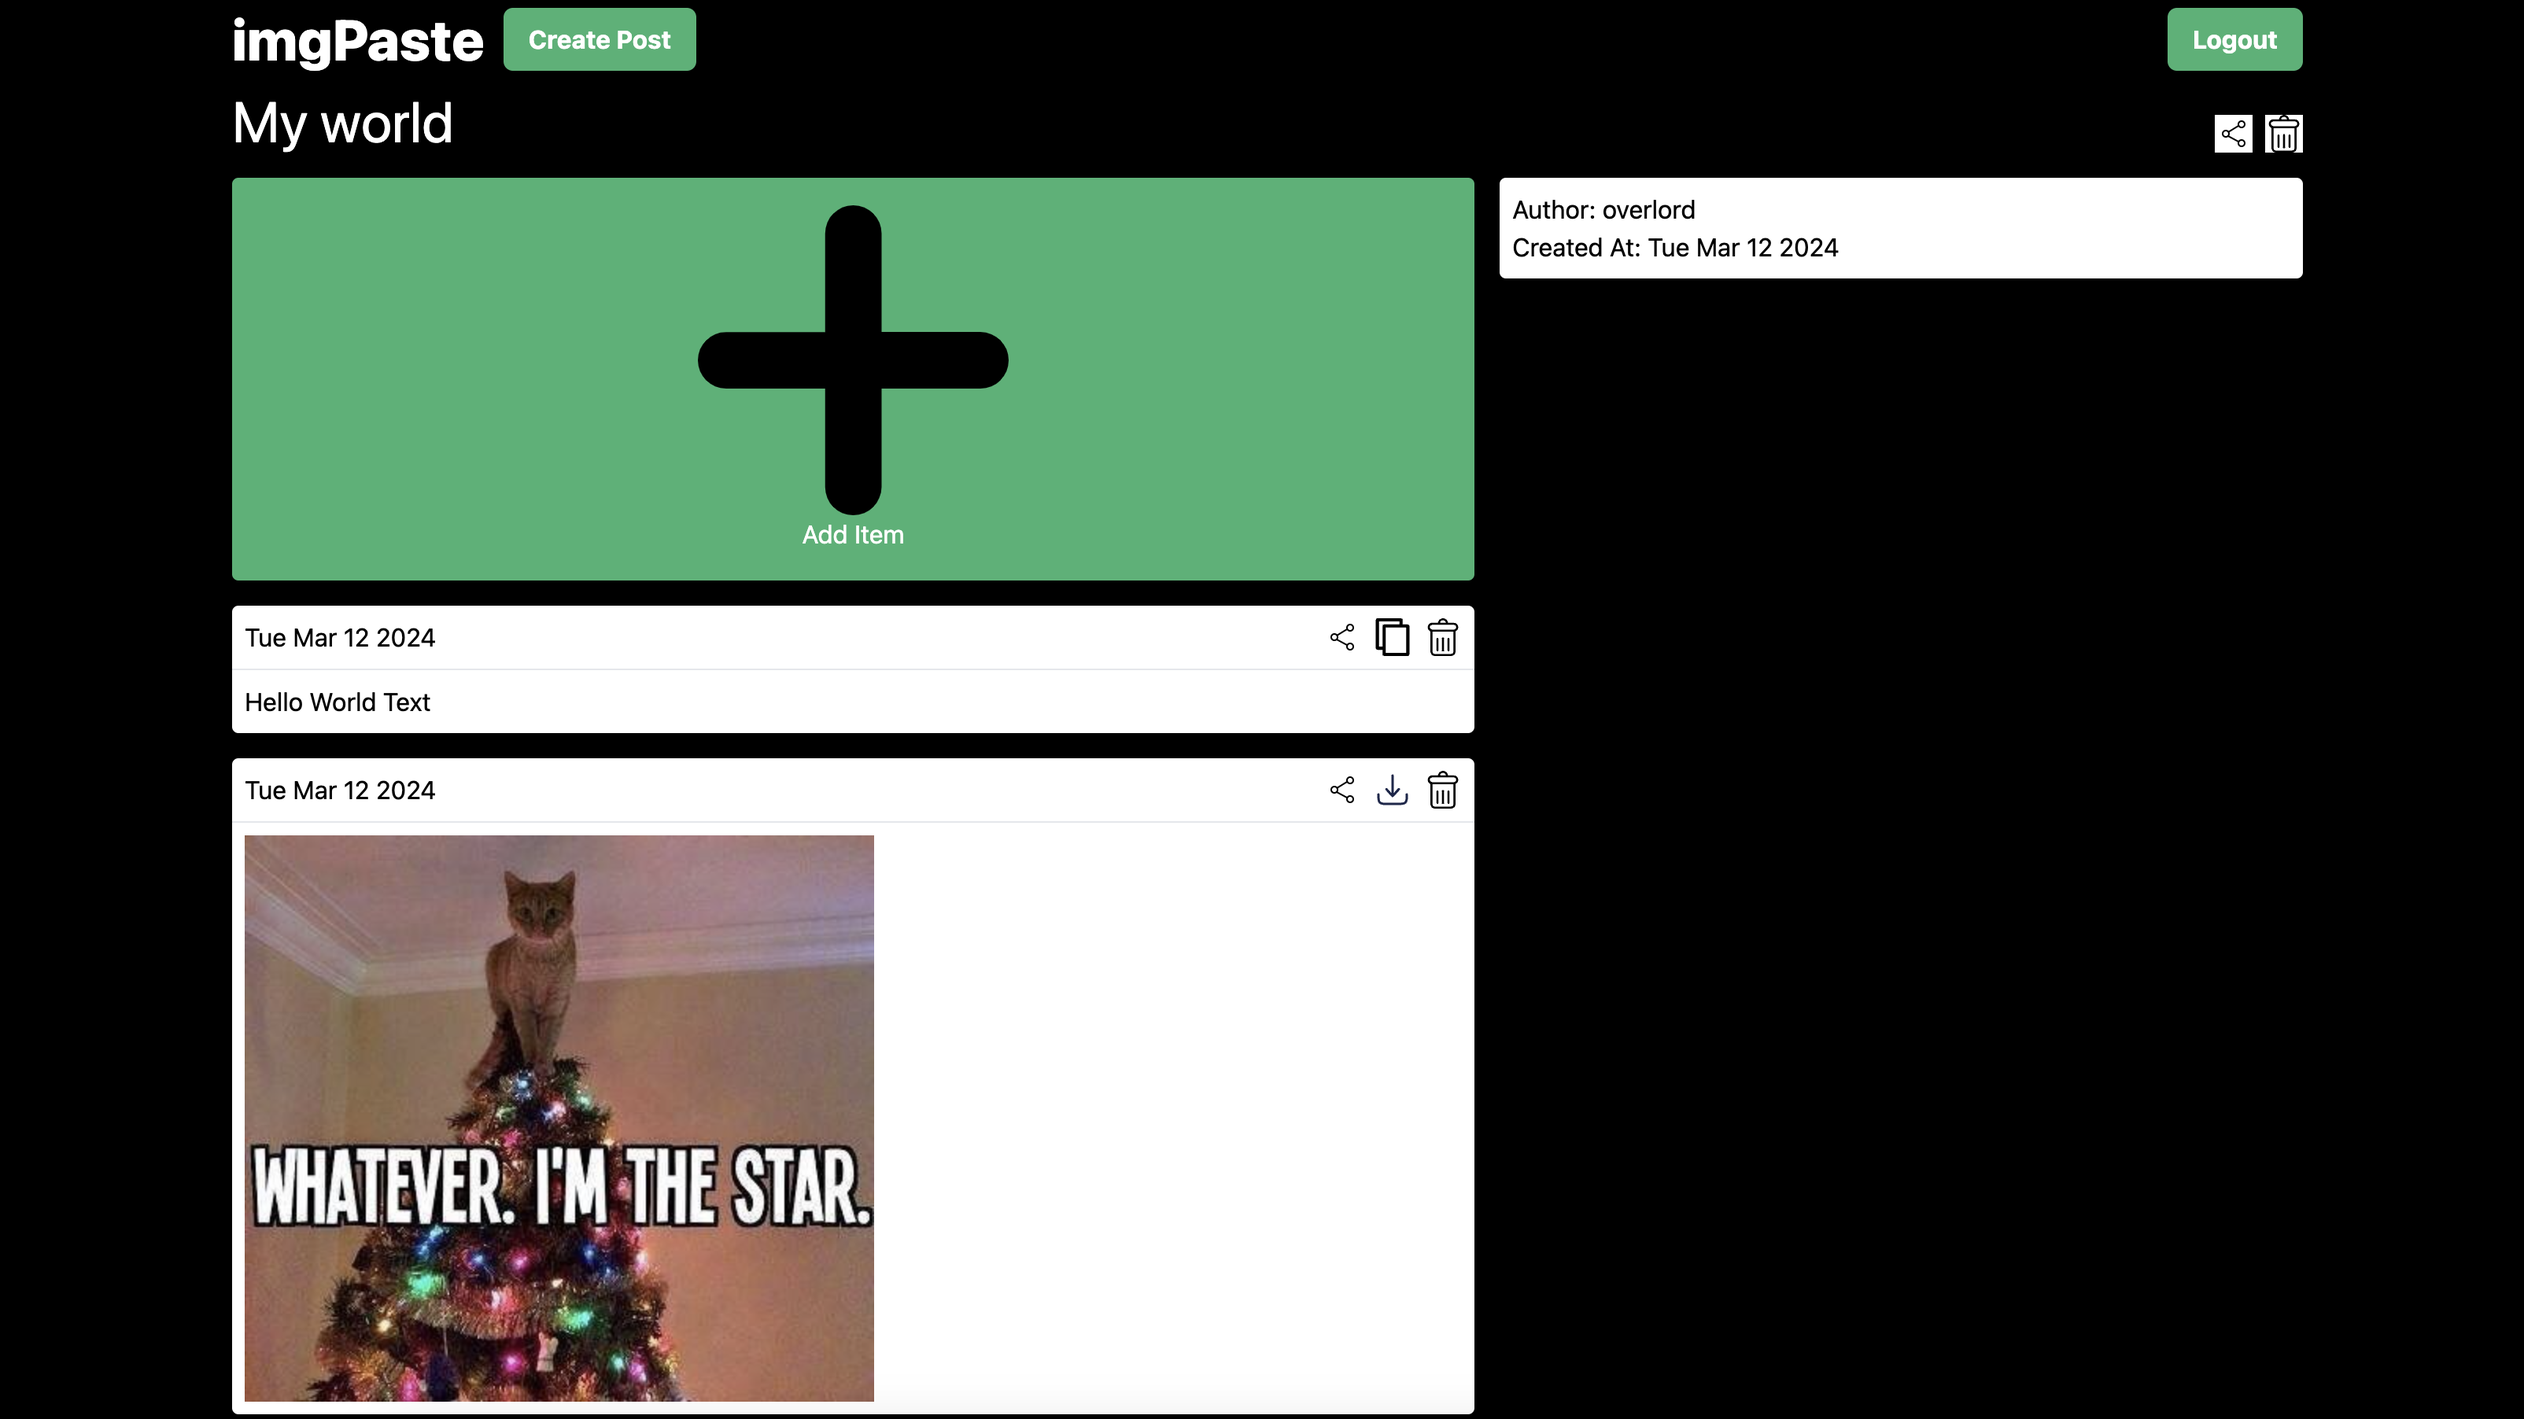
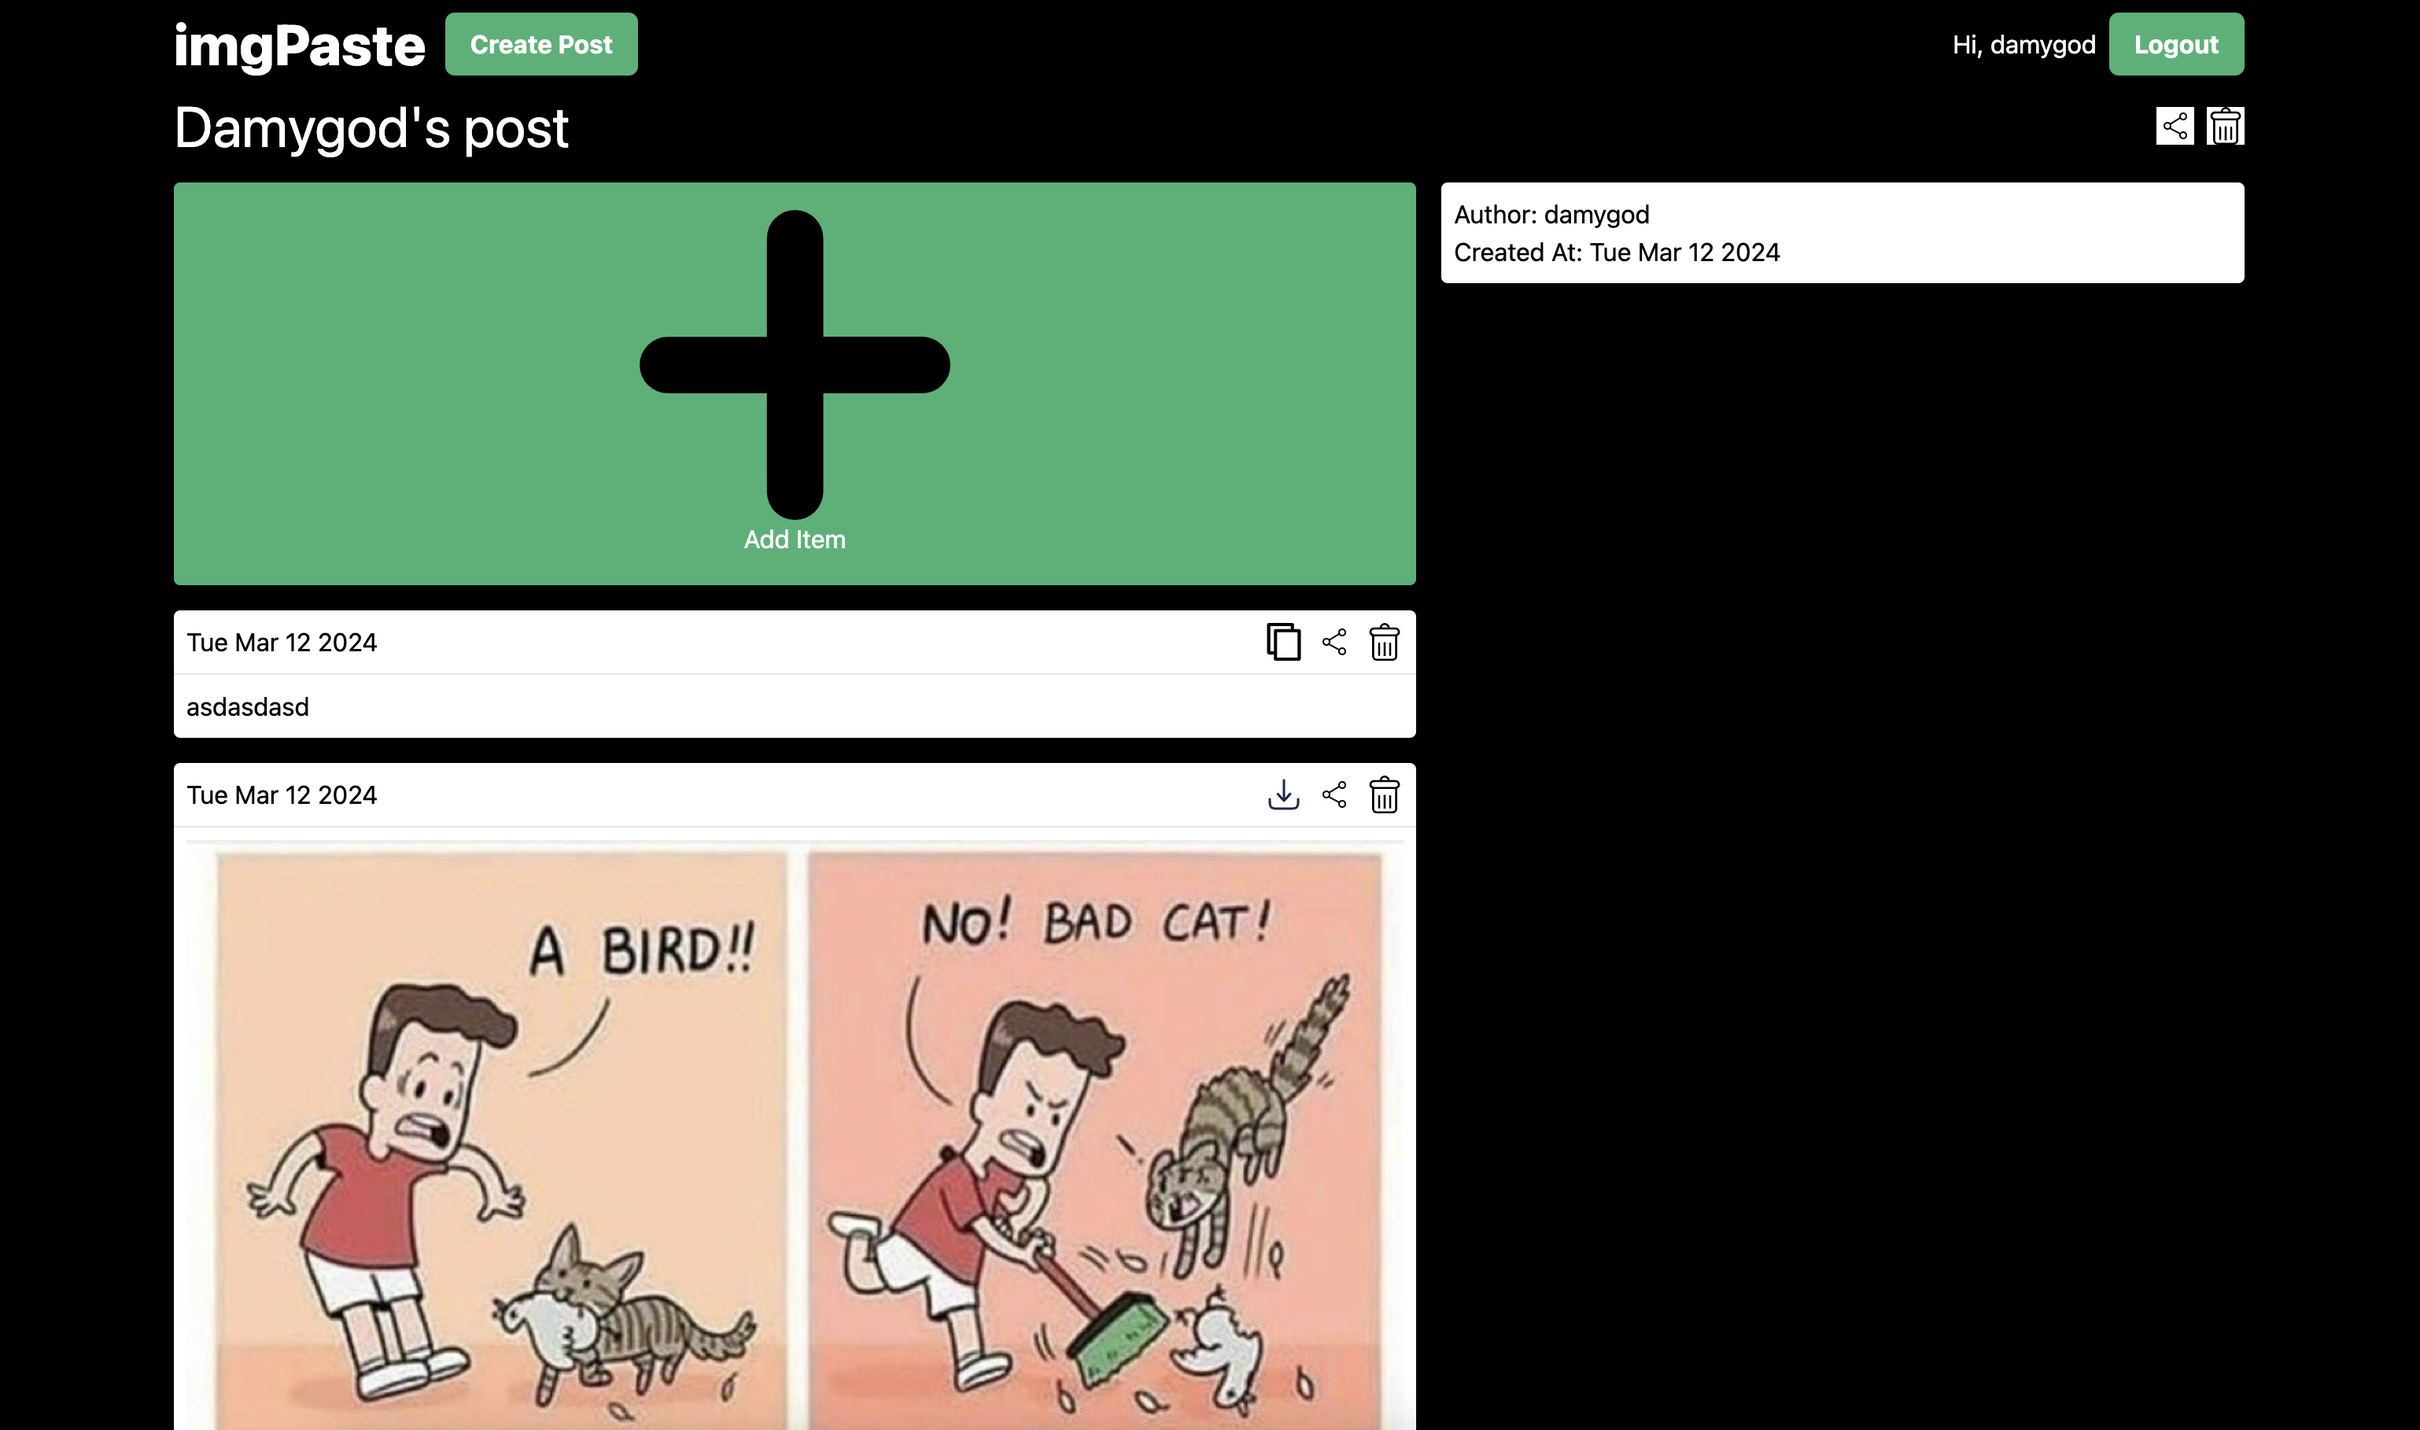
fix: readme and more authorization

diff --git a/client/src/components/Post.tsx b/client/src/components/Post.tsx
@@ -10,15 +10,16 @@ import { copyToClipboard } from "../lib/clipboard";
 interface PostItemProps {
     postItem: PostItem
     refresh?: () => void
-    children?: ReactNode 
+    children?: ReactNode
+    isOwner: () => boolean
 }
 
-export const PostText: FC<PostItemProps> = ({ postItem, refresh = ()=>{} }) => {
-    return <PostItemLayout postItem={postItem} refresh={refresh}>{postItem.content}</PostItemLayout>
+export const PostText: FC<PostItemProps> = (prop) => {
+    return <PostItemLayout {...prop}>{prop.postItem.content}</PostItemLayout>
 }
-export const PostImage: FC<PostItemProps> = ({ postItem, refresh }) => {
-    return <PostItemLayout postItem={postItem} refresh={refresh}>
-        <img src={getImageUrl(postItem.content)} alt="postItem" />
+export const PostImage: FC<PostItemProps> = (prop) => {
+    return <PostItemLayout {...prop}>
+        <img src={getImageUrl(prop.postItem.content)} alt="postItem" />
     </PostItemLayout>
 }
 
@@ -26,7 +27,7 @@ const getImageUrl = (content: string) => {
     return `${import.meta.env.VITE_SERVER_URL}${content}`;
 }
 
-const PostItemLayout: FC<PostItemProps> = ({ postItem, refresh = () => {}, children }) => {
+const PostItemLayout: FC<PostItemProps> = ({ postItem, refresh = () => { }, isOwner, children }) => {
     const onDelete = async () => {
         try {
             await axiosClient.delete(`/post/postItem/${postItem.id}`)
@@ -42,26 +43,27 @@ const PostItemLayout: FC<PostItemProps> = ({ postItem, refresh = () => {}, child
             </div>
             <div className="flex gap-2">
                 {/* add copy content, delete Button */}
-                <button onClick={() => copyToClipboard(window.location.host + `/p/${postItem.postId}/i/${postItem.id}`)}><img src={Share} alt="share" className="w-6" /></button>
                 {postItem.type == "text" && <button onClick={() => copyToClipboard(postItem.content)}><img src={Copy} alt="copy" className="w-6" /></button>}
                 {postItem.type == "image" && <button onClick={() => {
                     fetch(getImageUrl(postItem.content))
-                            .then(response => response.blob())
-                            .then(blob => {
-                                const blobUrl = URL.createObjectURL(blob);
-                                const a = document.createElement('a');
-                                a.href = blobUrl;
-                                a.download = `p-${postItem.postId}-i-${postItem.id}-${postItem.content.split('/').pop()}`; // Set the download filename
-                    
-                                a.click();
-                    
-                                URL.revokeObjectURL(blobUrl);
-                            })
-                            .catch(error => {
-                                console.error('Error downloading image:', error);
-                            });
+                        .then(response => response.blob())
+                        .then(blob => {
+                            const blobUrl = URL.createObjectURL(blob);
+                            const a = document.createElement('a');
+                            a.href = blobUrl;
+                            a.download = `p-${postItem.postId}-i-${postItem.id}-${postItem.content.split('/').pop()}`; // Set the download filename
+
+                            a.click();
+
+                            URL.revokeObjectURL(blobUrl);
+                        })
+                        .catch(error => {
+                            console.error('Error downloading image:', error);
+                        });
                 }}><img src={Download} alt="download" className="w-6" /></button>}
-                <button onClick={onDelete}><img src={Delete} alt="delete" className="w-6" /></button>
+                <button onClick={() => copyToClipboard(window.location.host + `/p/${postItem.postId}/i/${postItem.id}`)}><img src={Share} alt="share" className="w-6" /></button>
+
+                {isOwner() && <button onClick={onDelete}><img src={Delete} alt="delete" className="w-6" /></button>}
             </div>
         </div>
         <div className="p-2">{children}</div>

diff --git a/client/src/pages/PostPage.tsx b/client/src/pages/PostPage.tsx
@@ -9,12 +9,12 @@ import Share from '../assets/share.svg'
 import { Post } from '../types';
 import { copyToClipboard } from '../lib/clipboard';
 import { PostImage, PostText } from '../components/Post';
-
-
+import { useAuth } from '../state';
 
 const PostPage = () => {
 	const { id } = useParams();
 	const navigate = useNavigate();
+	const {user, isLoggedIn} = useAuth();
 	const [post, setPost] = useState<Post | null>(null);
 	const [postItemType, setPostItemType] = useState<string | null>(null);
 
@@ -108,19 +108,23 @@ const PostPage = () => {
 		navigate('/');
 	}
 
+	const isOwner = () => {
+		return isLoggedIn() ? post.author.id === user!.id : false;
+	}
+
 	return (
 		<div>
 			<div className="flex justify-between items-center">
-				<h1 className="text-4xl mb-4">{post.title}</h1>
+				<h1 className="text-4xl">{post.title}</h1>
 				<div className="flex gap-2">
 					<button onClick={() => copyToClipboard(window.location.href)}><img src={Share} alt="share" className="w-6" /></button>
-					<button onClick={deletePost} className="bg-white"><img src={Delete} alt="delete" className="w-6" /></button>
+					{isOwner() &&<button onClick={deletePost} className="bg-white"><img src={Delete} alt="delete" className="w-6" /></button>}
 				</div>
 			</div>
 			<div className="flex gap-4">
 				<div className="w-3/5">
-					{postItemType == null ?
-						<div className="w-full h-64 bg-primary text-white rounded group cursor-pointer">
+					{isOwner() && (postItemType == null ?
+						<div className="w-full h-64 bg-primary text-white rounded group cursor-pointer mt-4">
 							<div className="flex flex-col justify-center items-center h-full group-hover:hidden ">
 								<img src={Plus} alt="Plus" className="w-1/4 block fill-white" />
 								<div>Add Item</div>
@@ -144,19 +148,19 @@ const PostPage = () => {
 								<SecondaryButton onClick={onCancel}>Cancel</SecondaryButton>
 							</div>
 						</form>)
-					}
+					)} 
 
 					<div className="flex flex-col gap-4 my-4">
 						{post.postItems.map((item, index) => {
 							return (
 								<div key={index}>
-									{item.type == "text" ? <PostText postItem={item} refresh={fetchPost}/> : <PostImage postItem={item} refresh={fetchPost}/>}
+									{item.type == "text" ? <PostText postItem={item} refresh={fetchPost} isOwner={isOwner}/> : <PostImage postItem={item} refresh={fetchPost} isOwner={isOwner}/>}
 								</div>
 							)
 						})}
 					</div>
 				</div>
-				<div className="flex-1">
+				<div className="flex-1 mt-4">
 					<div className="bg-white p-2 rounded text-black">
 						<div>
 							Author: {post.author.username}

diff --git a/client/src/state/index.tsx b/client/src/state/index.tsx
@@ -1,7 +1,15 @@
 import React, { createContext, useContext, useState, ReactNode, useEffect } from 'react';
 import { axiosClient } from '../lib/axiosClient';
+import { jwtDecode } from 'jwt-decode';
+
+interface User {
+  id: number;
+  username: string;
+  email: string;
+}
 
 interface AuthContextType {
+  user: User | null;
   accessToken: string | null;
   login: (token: string) => void;
   logout: () => void;
@@ -9,9 +17,10 @@ interface AuthContextType {
 }
 
 const defaultContextValue: AuthContextType = {
+  user: null,
   accessToken: null,
-  login: () => {},
-  logout: () => {},
+  login: () => { },
+  logout: () => { },
   isLoggedIn: () => false
 };
 
@@ -21,9 +30,16 @@ export const useAuth = () => useContext(AuthContext);
 
 export const AuthProvider: React.FC<{ children: ReactNode }> = ({ children }) => {
   const [accessToken, setAccessToken] = useState<string | null>(null);
+  const [user, setUser] = useState<User | null>(null);
 
   const login = (token: string) => {
     localStorage.setItem('accessToken', token);
+    const decoded = jwtDecode(token) as User;
+    setUser({
+      id: +decoded.id,
+      username: decoded.username,
+      email: decoded.email
+    });
     setAccessToken(token);
     axiosClient.defaults.headers.Authorization = token;
   };
@@ -38,6 +54,7 @@ export const AuthProvider: React.FC<{ children: ReactNode }> = ({ children }) =>
   };
 
   const contextValue: AuthContextType = {
+    user,
     accessToken,
     login,
     logout,
@@ -55,9 +72,9 @@ export const AuthProvider: React.FC<{ children: ReactNode }> = ({ children }) =>
       } else {
         login(token);
       }
-    }    
+    }
   }, [])
-  
+
 
   return (
     <AuthContext.Provider value={contextValue}>

diff --git a/client/src/components/Header.tsx b/client/src/components/Header.tsx
@@ -1,9 +1,10 @@
-import { Link } from 'react-router-dom'
+import { Link, useNavigate } from 'react-router-dom'
 import { PrimaryButton, SecondaryButton } from './Button'
 import { useAuth } from '../state';
 
 const Header = () => {
-	const { isLoggedIn, logout } = useAuth();
+	const { user, isLoggedIn, logout } = useAuth();
+	const navigate = useNavigate();
 
 	const onLogout = () => {
 		logout()
@@ -16,13 +17,16 @@ const Header = () => {
 					<Link to="/">
 						<h1 className="font-extrabold text-4xl inline-block">imgPaste</h1>
 					</Link>
-					<Link to="/create-post">
-
-						<PrimaryButton>Create Post</PrimaryButton>
-					</Link>
+					<PrimaryButton onClick={() => {
+						if (!isLoggedIn()) {
+							navigate('/login?message=You need to login to create a post');
+						} else {
+							navigate('/create-post');
+						}
+					}}>Create Post</PrimaryButton>
 				</div>
 				<div className="flex gap-2">
-					{isLoggedIn() ? <PrimaryButton onClick={onLogout}>Logout</PrimaryButton> : <>
+					{isLoggedIn() ? <div>Hi, {user!.username}<PrimaryButton onClick={onLogout} className="ml-2">Logout</PrimaryButton></div> : <>
 						<Link to="/login"><PrimaryButton>Login</PrimaryButton></Link>
 						<Link to="/register">
 							<SecondaryButton>Register</SecondaryButton>

diff --git a/client/src/pages/PostItemPage.tsx b/client/src/pages/PostItemPage.tsx
@@ -1,11 +1,12 @@
-import axios from 'axios';
 import { useEffect, useState } from 'react'
 import { useNavigate, useParams } from 'react-router-dom';
 import { PostItem } from '../types';
 import { PostImage, PostText } from '../components/Post';
 import { axiosClient } from '../lib/axiosClient';
+import { useAuth } from '../state';
 
 const PostItemPage = () => {
+	const {user, isLoggedIn} = useAuth();
 	const {  postItemId } = useParams();
 	const navigate = useNavigate();
 	const [postItem, setPostItem] = useState<PostItem | null>(null);
@@ -32,9 +33,13 @@ const PostItemPage = () => {
 		return <div>Loading...</div>;
 	}
 
+	const isOwner = () => {
+		return isLoggedIn() ? user!.id === postItem.post.author.id : false;
+	}
+
 	return (
 		<div>
-			{postItem.type == "text" ? <PostText postItem={postItem} /> : <PostImage postItem={postItem} />}
+			{ postItem.type == "text" ? <PostText postItem={postItem} isOwner={isOwner} /> : <PostImage postItem={postItem} isOwner={isOwner} />}
 		</div>
 	)
 }

diff --git a/server/controllers/auth.js b/server/controllers/auth.js
@@ -71,7 +71,7 @@ authRouter.post('/login', async (req, res, next) => {
             return res.status(400).send({ message: "Invalid password" });
         }
 
-        const token = jsonwebtoken.sign({ id: user.id }, JWT_SECRET, { expiresIn: "1d" });
+        const token = jsonwebtoken.sign({ id: user.id, username: user.username, email: user.email }, JWT_SECRET, { expiresIn: "1d" });
 
         return res.status(200).send({ data: {token} });
     } catch (error) {

diff --git a/server/controllers/post.js b/server/controllers/post.js
@@ -67,7 +67,11 @@ postRouter.get('/postItem/:id', async (req, res, next) => {
                 id: parseInt(id)
             },
             include: {
-                post: true,
+                post: {
+                    include: {
+                        author: true
+                    }
+                },
             }
         });
 

diff --git a/client/src/types/index.d.ts b/client/src/types/index.d.ts
@@ -23,4 +23,5 @@ export interface PostItem {
     postId: number;
     createdAt: Date;
     updatedAt: Date;
+    post: Post;
 }

diff --git a/README.md b/README.md
@@ -10,10 +10,10 @@ imgPaste is a site where you can share images and text with others. It is a comb
 - Copy text
 
 <div style="display: grid; grid-template-columns: repeat(2, 1fr); gap: 10px;">
-  <img src="./screenshots/index.png" alt="Image 1" style="width: 100%;">
-  <img src="./screenshots/posts.png" alt="Image 4" style="width: 100%;">
-  <img src="./screenshots/register.png" alt="Image 2" style="width: 100%;">
-  <img src="./screenshots/login.png" alt="Image 3" style="width: 100%;">
+  <img src="./screenshots/index.png" alt="HomePage" style="width: 100%;">
+  <img src="./screenshots/posts.png" alt="Posts" style="width: 100%;">
+  <img src="./screenshots/register.png" alt="Register" style="width: 100%;">
+  <img src="./screenshots/login.png" alt="Login" style="width: 100%;">
 </div>
 
 ## Frontend Stack
